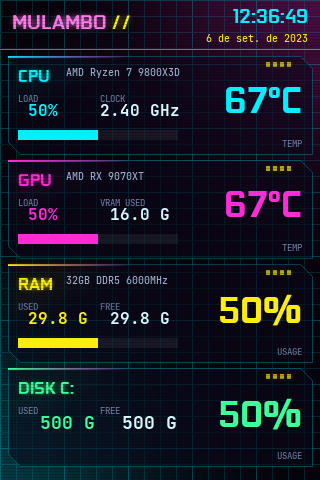
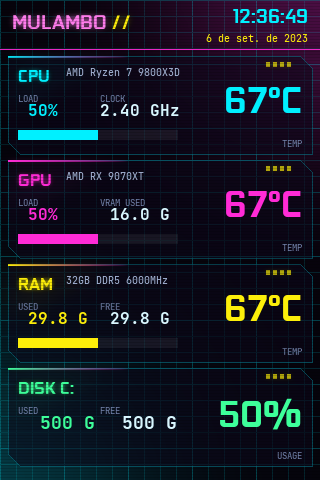
feat: add RAM temperature sensor (LHM DIMM) and show it on CyberpunkNeon theme

Changed region(s): [[0.6875, 0.5938, 0.9375, 0.6875], [0.875, 0.7188, 0.9375, 0.75]]

diff --git a/library/sensors/sensors_librehardwaremonitor.py b/library/sensors/sensors_librehardwaremonitor.py
@@ -455,6 +455,21 @@ class Memory(sensors.Memory):
 
         return 0
 
+    @staticmethod
+    def temperature() -> float:
+        # Each memory module with a thermal sensor (e.g. DDR5) is a separate hardware with a "DIMM #x" sensor:
+        # the hottest module temperature will be used
+        temperatures = []
+        for hardware in handle.Hardware:
+            if hardware.HardwareType == Hardware.HardwareType.Memory:
+                hardware.Update()
+                for sensor in hardware.Sensors:
+                    if sensor.SensorType == Hardware.SensorType.Temperature and str(sensor.Name).startswith(
+                            "DIMM #") and sensor.Value is not None:
+                        temperatures.append(float(sensor.Value))
+
+        return max(temperatures) if temperatures else math.nan
+
 
 # NOTE: all disk data are fetched from psutil Python library, because LHM does not have it.
 # This is because LHM is a hardware-oriented library, whereas used/free/total space is for partitions, not disks

diff --git a/library/stats.py b/library/stats.py
@@ -631,6 +631,15 @@ class Memory:
         display_themed_memory_value(memory_stats_theme_data['VIRTUAL']['TOTAL'],
                                     (sensors.Memory.virtual_free() + sensors.Memory.virtual_used()) / 1024 ** 2)
 
+        memory_temp_text_data = memory_stats_theme_data['TEMPERATURE']['TEXT']
+        if memory_temp_text_data['SHOW']:
+            temperature = sensors.Memory.temperature()
+            if math.isnan(temperature):
+                logger.warning("Your RAM temperature is not supported yet")
+                memory_temp_text_data['SHOW'] = False
+            else:
+                display_themed_temperature_value(memory_temp_text_data, temperature)
+
 
 class Disk:
     last_values_disk_usage = []

diff --git a/library/sensors/sensors.py b/library/sensors/sensors.py
@@ -21,6 +21,7 @@
 # This file defines all supported hardware in virtual classes and their abstract methods to access sensors
 # To be overriden by child sensors classes
 
+import math
 from abc import ABC, abstractmethod
 from typing import Tuple
 
@@ -100,6 +101,11 @@ class Memory(ABC):
     @abstractmethod
     def virtual_free() -> int:  # In bytes
         pass
+
+    @staticmethod
+    def temperature() -> float:
+        # RAM temperature is not available on most sensor implementations
+        return math.nan
 
 
 class Disk(ABC):

diff --git a/library/sensors/sensors_stub_static.py b/library/sensors/sensors_stub_static.py
@@ -106,6 +106,10 @@ class Memory(sensors.Memory):
     def virtual_free() -> int:  # In bytes
         return int(MEMORY_TOTAL_SIZE_GB / 100 * (100 - PERCENTAGE_SENSOR_VALUE)) * 1000000000
 
+    @staticmethod
+    def temperature() -> float:
+        return TEMPERATURE_SENSOR_VALUE
+
 
 class Disk(sensors.Disk):
     @staticmethod

diff --git a/library/sensors/sensors_stub_random.py b/library/sensors/sensors_stub_random.py
@@ -92,6 +92,10 @@ class Memory(sensors.Memory):
     def virtual_free() -> int:  # In bytes
         return random.randint(300000000, 16000000000)
 
+    @staticmethod
+    def temperature() -> float:
+        return random.uniform(30, 90)
+
 
 class Disk(sensors.Disk):
     @staticmethod
